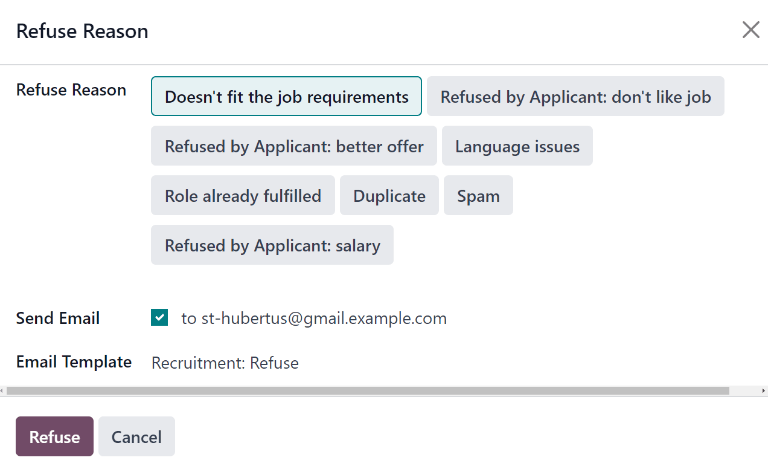
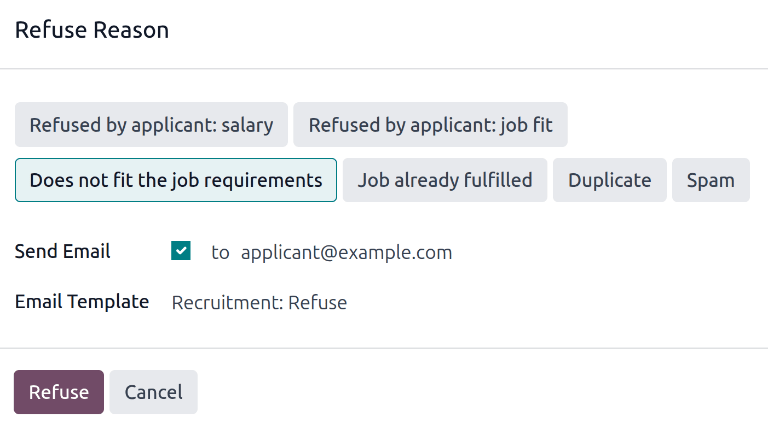
[IMP] Recruitment: Update offer job positions
closes odoo/documentation#13905

X-original-commit: f5a8efa6d72ec4cb6fa60ed1fcd8925182d4a073

diff --git a/content/applications/hr/recruitment/refuse_applicant.rst b/content/applications/hr/recruitment/refuse_applicant.rst
@@ -4,13 +4,13 @@ Refuse applicants
 
 At any point in the recruitment process, an applicant can be refused for a job position.
 
-To refuse an applicant, start by navigating to the applicant's card in the *Recruitment* app. This
+To refuse an applicant, start by navigating to the applicant's card in the **Recruitment** app. This
 is done in one of two ways:
 
 - Navigate to :menuselection:`Recruitment app --> Applications --> All Applications`. In the
   :guilabel:`Applications` list, click anywhere on the desired applicant's line to open that
   specific applicant's card.
-- Navigate to the main *ob Positions* dashboard by navigating to :menuselection:`Recruitment app
+- Navigate to the main *Job Positions* dashboard by navigating to :menuselection:`Recruitment app
   --> Applications --> By Job Position`. Next, click on the desired job position card, then click on
   the individual applicant card from the :guilabel:`Applications` page.
 
@@ -37,15 +37,13 @@ The default refuse reasons in Odoo, and their corresponding email templates, are
    * - Email Template
      - Refusal Reason
    * - :guilabel:`Recruitment: Refuse`
-     - | :guilabel:`Doesn't fit the job requirements`
-       | :guilabel:`Language issues`
-       | :guilabel:`Role already fulfilled`
+     - | :guilabel:`Does not fit the job requirements`
+       | :guilabel:`Job already fulfilled`
        | :guilabel:`Duplicate`
        | :guilabel:`Spam`
    * - :guilabel:`Recruitment: Not interested anymore`
-     - | :guilabel:`Refused by Applicant: don't like job`
-       | :guilabel:`Refused by Applicant: better offer`
-       | :guilabel:`Refused by Applicant: salary`
+     - | :guilabel:`Refused by applicant: job fit`
+       | :guilabel:`Refused by applicant: salary`
 
 Additional refusal reasons :ref:`can be created, and existing ones can be modified (or deleted)
 <recruitment/new-refuse>`.
@@ -58,8 +56,8 @@ Create or modify refuse reasons
 -------------------------------
 
 To view and configure refuse reasons, navigate to :menuselection:`Recruitment app --> Configuration
---> Applications: Refuse Reasons`. Doing so reveals the :guilabel:`Refuse Reasons` page, where all
-the existing refuse reasons are listed.
+--> Refuse Reasons`. Doing so reveals the :guilabel:`Refuse Reasons` page, where all the existing
+refusal reasons are listed.
 
 To create a new refuse reason from the :guilabel:`Refuse Reasons` page, click the :guilabel:`New`
 button in the top-left corner. A blank line appears at the bottom of the list, with an empty field
@@ -68,8 +66,8 @@ present in the :guilabel:`Description` column.
 Type in the new refuse reason in the field. It is recommended to enter a reason that is short and
 concise, such as `Offer expired` or `Withdrew application`.
 
-Then, in the :guilabel:`Email Template` field, click on the field to reveal a drop-down menu.
-Select an :guilabel:`Email Template` from the list to be used when this refuse reason is selected.
+Then, in the :guilabel:`Email Template` field, click on the field to reveal a drop-down menu. Select
+an :guilabel:`Email Template` from the list to be used when this refuse reason is selected.
 
 If a new :guilabel:`Email Template` is desired, type in the name for the new template in the field.
 Then, click :guilabel:`Create and edit...`, and a :guilabel:`Create Email Template` form pop-up
@@ -101,12 +99,11 @@ Send refusal email
 ==================
 
 After clicking the :guilabel:`Refuse` button on an applicant form, a :ref:`Refuse Reason
-<recruitment/refuse-reasons>` can be selected from the :guilabel:`refuse reason` pop-up window.
+<recruitment/refuse-reasons>` is then selected from the :guilabel:`Refuse Reason` pop-up window.
 Then, two fields appear below the selected refusal reason: :guilabel:`Send Email` and
 :guilabel:`Email Template`.
 
 .. image:: refuse_applicant/refuse-pop-up.png
-   :align: center
    :alt: The Refuse Reason pop-up window that appears when refusing an applicant.
 
 The applicant's email address automatically populates the :guilabel:`Send Email` field; additional
@@ -124,7 +121,6 @@ refusal email is sent to the applicant, and a red :guilabel:`Refused` banner app
 applicant's card in the top-right corner.
 
 .. image:: refuse_applicant/refuse.png
-   :align: center
    :alt: An applicant's card with the refused banner appearing in the top-right corner in red.
 
 View refused applicants
@@ -134,11 +130,14 @@ After refusal, the applicant's card is no longer visible in the job position's K
 it is still possible to view applicants who have been refused.
 
 To view only the refused applicants, go to :menuselection:`Recruitment app --> Applications --> By
-Job Positions`, or :menuselection:`Recruitment app --> Applications --> All Applications`.
+Job Positions`, or :menuselection:`Recruitment app --> Applications --> All Applications`. Both
+methods navigate to the :guilabel:`Applications` dashboard, the only difference is :guilabel:`By Job
+Positions` displays applicants in a Kanban view, while :guilabel:`All Applications` displays
+applicants in a list view.
 
-On the :guilabel:`Applications` page, click the :icon:`fa-caret-down` :guilabel:`(caret down)`
-button in the :guilabel:`Search...` bar, then click :guilabel:`Refused`, located under the
-:guilabel:`Filters` section.
+On the :guilabel:`Applications` page, click the :icon:`fa-caret-down` :guilabel:`(Toggle Search
+Panel)` button in the search bar, then click :guilabel:`Refused`, located under the
+:icon:`fa-funnel` :guilabel:`Filters` section.
 
 All applicants that have been refused for the job position appear on the :guilabel:`Applications`
 page for that position, organized by the stage they were in when they were refused.
